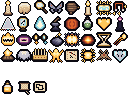
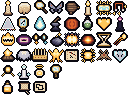
Four new relics: pocket lamp, white phosphor, blessed oil, hand mirror
Blessed oil refunds flame per brazier lit, white phosphor makes the flare
burn, the hand mirror sends struck orbs back, the pocket lamp raises the
light floor. Adds a live-player test for the hooks and a --bot-relics
autopilot flag to start expeditions holding chosen relics.

Claude-Session: https://claude.ai/code/session_01QC2KAfo7ovYoELV3VSTaEd

Changed region(s): [[0.0, 0.6562, 0.375, 0.8438], [0.375, 0.6562, 0.5, 0.8438]]

diff --git a/tools/i18n/strings_source.py b/tools/i18n/strings_source.py
@@ -274,6 +274,14 @@ S = {
     "RELIC_TINDER_DESC": ("+12% de daño por cada brasero encendido en la sala.", "+12% damage per lit brazier in the room."),
     "RELIC_GLASS_HEART": ("Corazón de vidrio", "Glass heart"),
     "RELIC_GLASS_HEART_DESC": ("Maldita: el doble de daño... y recibes el doble.", "Cursed: double damage... and you take double."),
+    "RELIC_POCKET_LAMP": ("Farol de bolsillo", "Pocket lamp"),
+    "RELIC_POCKET_LAMP_DESC": ("Tu luz nunca se encoge tanto, aunque la llama esté baja.", "Your light never shrinks as much, even when the flame is low."),
+    "RELIC_WHITE_PHOSPHOR": ("Fósforo blanco", "White phosphor"),
+    "RELIC_WHITE_PHOSPHOR_DESC": ("El Fogonazo es más grande, golpea más fuerte y prende fuego a las criaturas.", "The Flare is bigger, hits harder and sets creatures ablaze."),
+    "RELIC_BLESSED_OIL": ("Aceite bendito", "Blessed oil"),
+    "RELIC_BLESSED_OIL_DESC": ("Cada brasero que enciendes te devuelve 6 de llama.", "Every brazier you light gives you back 6 flame."),
+    "RELIC_HAND_MIRROR": ("Espejo de mano", "Hand mirror"),
+    "RELIC_HAND_MIRROR_DESC": ("Los orbes que golpeas con el farol salen despedidos contra quien los lanzó.", "Orbs you strike with the lantern fly back at whoever threw them."),
     # --- plaza ---------------------------------------------------------------------------------
     "HUB_TITLE": ("Plaza de Velaluz", "Velaluz Plaza"),
     "HUB_INTRO": ("Las chispas que traigas del subsuelo pueden reencender las farolas de la plaza.", "Sparks brought up from below can relight the plaza's lamps."),

diff --git a/tools/art/sprites_relics.py b/tools/art/sprites_relics.py
@@ -152,6 +152,25 @@ ICONS = {
         ".......", ".000.00", "0TT70T7", "0T88T77", "0T887T7", "0T87077",
         "0T77707", ".0T7707", "..0T777", "...0T77", "....0T7", ".....0T",
         "......0", "......."]),
+    32: [  # pocket lamp
+        "..............", ".....0000.....", "....0hHHh0....", "...0kYllYk0...",
+        "...0klwwlk0...", "...0kYllYk0...", "....0hhhh0....", ".....0kk0.....",
+        "...Y......Y...", "..Y........Y..", ".Y..........Y.", "..............",
+        "..............", ".............."],
+    33: m([  # white phosphor wick
+        "......w", ".....wT", ".....T8", "......8", "......0", ".....78",
+        ".....78", ".....78", "..T..78", ".T8T.78", "..T..78", "....778",
+        "...7777", "...0000"]),
+    34: [  # blessed oil
+        "....YYYYY.....", "...Y.....Y....", "....YYYYY.....", ".....0B0......",
+        "....00000.....", "...0X8X8X0....", "..0X8YYY8X0...", "..0XYlllYX0...",
+        "..0XYlwlYX0...", "..0XYYYYYX0...", "...0XXXXX0....", "....00000.....",
+        "..............", ".............."],
+    35: [  # hand mirror
+        "....000000....", "...0hHHHHh0...", "..0hT8887Th0..", "..0H8TT887H0..",
+        "..0H88TT87H0..", "..0hT8888Th0..", "...0hHHHHh0...", "....0hkkh0....",
+        ".....0kk0.....", ".....0Kk0.....", ".....0kK0.....", ".....0KK0.....",
+        ".....0000.....", ".............."],
     40: [  # lamp oil flask
         ".....000......", ".....0B0......", "....0hHh0.....", "....0kkk0.....",
         "...0788870....", "..078888870...", "..0yYYYYYy0...", "..0YllllYY0...",

diff --git a/GAME_DESIGN.md b/GAME_DESIGN.md
@@ -67,8 +67,8 @@ La ciudad de Velaluz se apagó: la **Penumbra** inunda su subsuelo y se ha traga
 | **Gran Apagador** | Campanazo con anillos (luego queda atascado), apagón + sombras, ráfagas |
 | **La Penumbra** | Espirales; fase 2 «Velo» (solo la hiere la luz de brasero y apaga braseros); fase 3 oscurece la arena |
 
-### Reliquias (32)
-Datos en `data/relics.json`. Rarezas: común, rara, legendaria, maldita. Tres niveles de desbloqueo (farolas). Combinan estadísticas y efectos: rebotes, perforación, división, quemadura, explosiones en cadena, compañero orbital, rastro de fuego, escudo por sala, renacer, disparo grande cada N, daño por braseros encendidos, poder con poca llama… Sinergias deliberadas: Prisma + Espejo roto + Llama azul (lluvia de luz), Vela negra + Brasa viva + Llama hambrienta (cañón de cristal), Fósforo + Ceniza ardiente (reacciones en cadena), Yesca + braseros.
+### Reliquias (36)
+Datos en `data/relics.json`. Rarezas: común, rara, legendaria, maldita. Tres niveles de desbloqueo (farolas). Combinan estadísticas y efectos: rebotes, perforación, división, quemadura, explosiones en cadena, compañero orbital, rastro de fuego, escudo por sala, renacer, disparo grande cada N, daño por braseros encendidos, poder con poca llama… Sinergias deliberadas: Prisma + Espejo roto + Llama azul (lluvia de luz), Vela negra + Brasa viva + Llama hambrienta (cañón de cristal), Fósforo + Ceniza ardiente (reacciones en cadena), Yesca + Aceite bendito + braseros (encender sale casi gratis y cada brasero sube el daño), Espejo de mano + Fragua (el golpe devuelve los orbes), Fósforo blanco + Ascua errante (fogonazos frecuentes que queman).
 
 ### Faroles (4)
 Aceite (equilibrado), Candil de espejos (rebote), Brasero de mano (escopeta + golpe fuerte), Vela del peregrino (perforación, mucha luz, lento).

diff --git a/TESTING.md b/TESTING.md
@@ -89,6 +89,12 @@ Un agente revisor (sin acceso a escribir) leyó los sistemas centrales buscando 
 
 Tras los arreglos: **33 pruebas / 39 670 comprobaciones, 0 fallos**, «Continuar» OK, 10 partidas del bot sin errores (4 victorias), recorrido de pantallas completo.
 
+### 2026-10-10 — cuatro reliquias nuevas
+- Farol de bolsillo, Fósforo blanco, Aceite bendito y Espejo de mano (iconos 32–35).
+- Nueva prueba `test_new_relic_hooks_on_a_live_player`: crea un jugador real en el árbol de escena y comprueba el reembolso de llama al encender braseros (y que se acumula), la quemadura solo en el fogonazo, el suelo de luz y que el espejo devuelve el orbe como disparo propio en sentido contrario.
+- Nueva opción del autopiloto `--bot-relics a,b,…` (empieza cada expedición con esas reliquias). 3 partidas con las cuatro nuevas: sin errores de script, 3 victorias (esperable: empieza con cuatro reliquias extra).
+- `tools/test.sh`: **34 pruebas, 39 714 comprobaciones, 0 fallos**, «Continuar» OK.
+
 ## Limitaciones conocidas de las pruebas
 - El contenedor no tiene GPU: los tiempos de fotograma medidos son de CPU + render por software y **no** representan un PC real.
 - No hay dispositivo de audio: el sonido se verifica por análisis de ficheros, no escuchándolo.

diff --git a/ROADMAP.md b/ROADMAP.md
@@ -25,7 +25,7 @@ Leyenda: ✅ hecho y verificado · 🟡 en progreso / parcial · ⬜ pendiente
 - ✅ Verificado con autopiloto: expediciones completas hasta la victoria sin errores de script
 
 ## Fase D — Contenido y profundidad
-- ✅ 9 criaturas con comportamientos distintos, 3 jefes, 32 reliquias, 4 faroles, 14 sucesos, 11 farolas, 10 Noches
+- ✅ 9 criaturas con comportamientos distintos, 3 jefes, 36 reliquias, 4 faroles, 14 sucesos, 11 farolas, 10 Noches
 - 🟡 Equilibrio: dos pasadas con datos del autopiloto (bot con puntería perfecta gana ~50%); falta validación con personas
 - ⬜ Más variedad de salas hechas a mano (puzles de luz, salas oscuras especiales)
 
